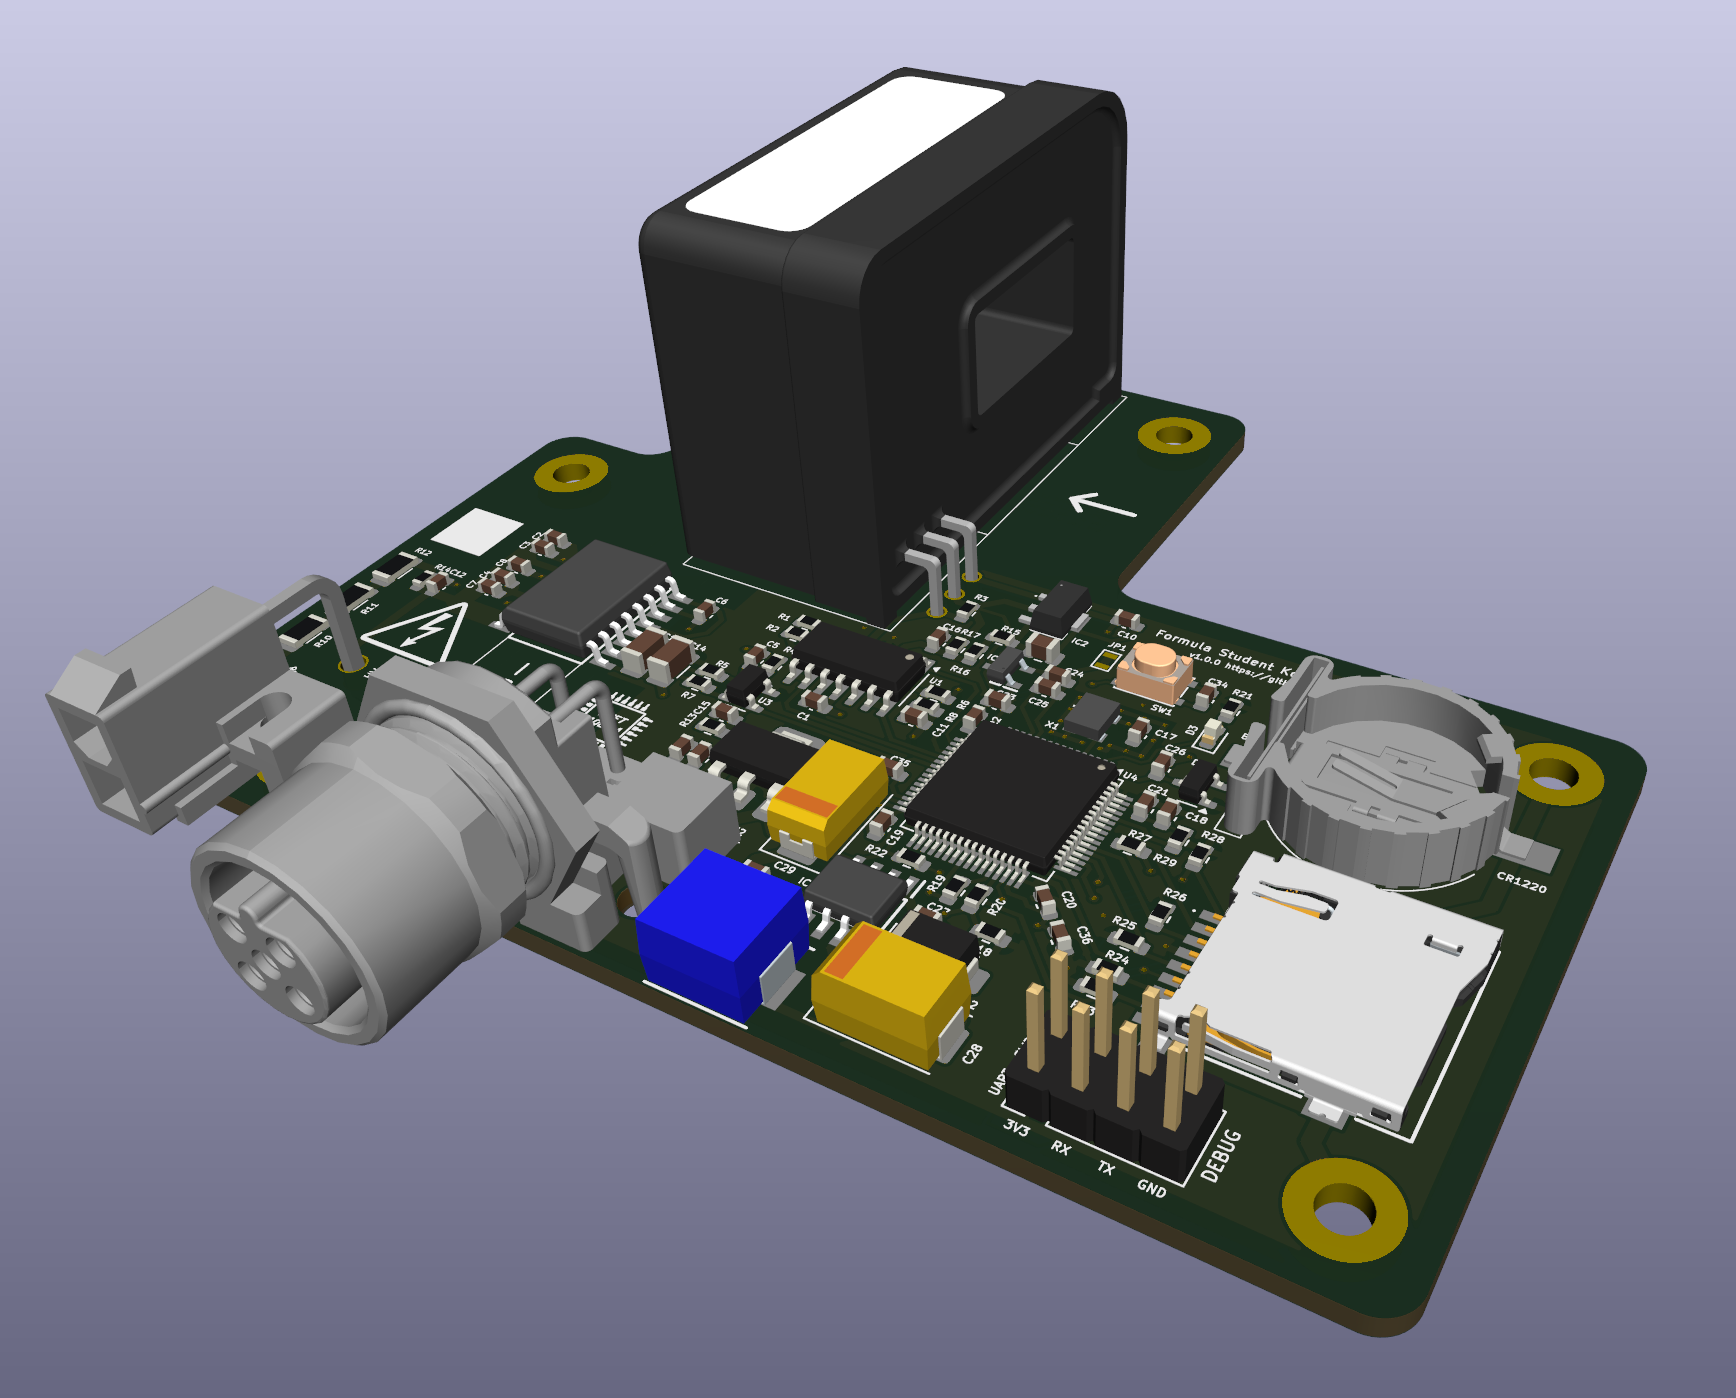
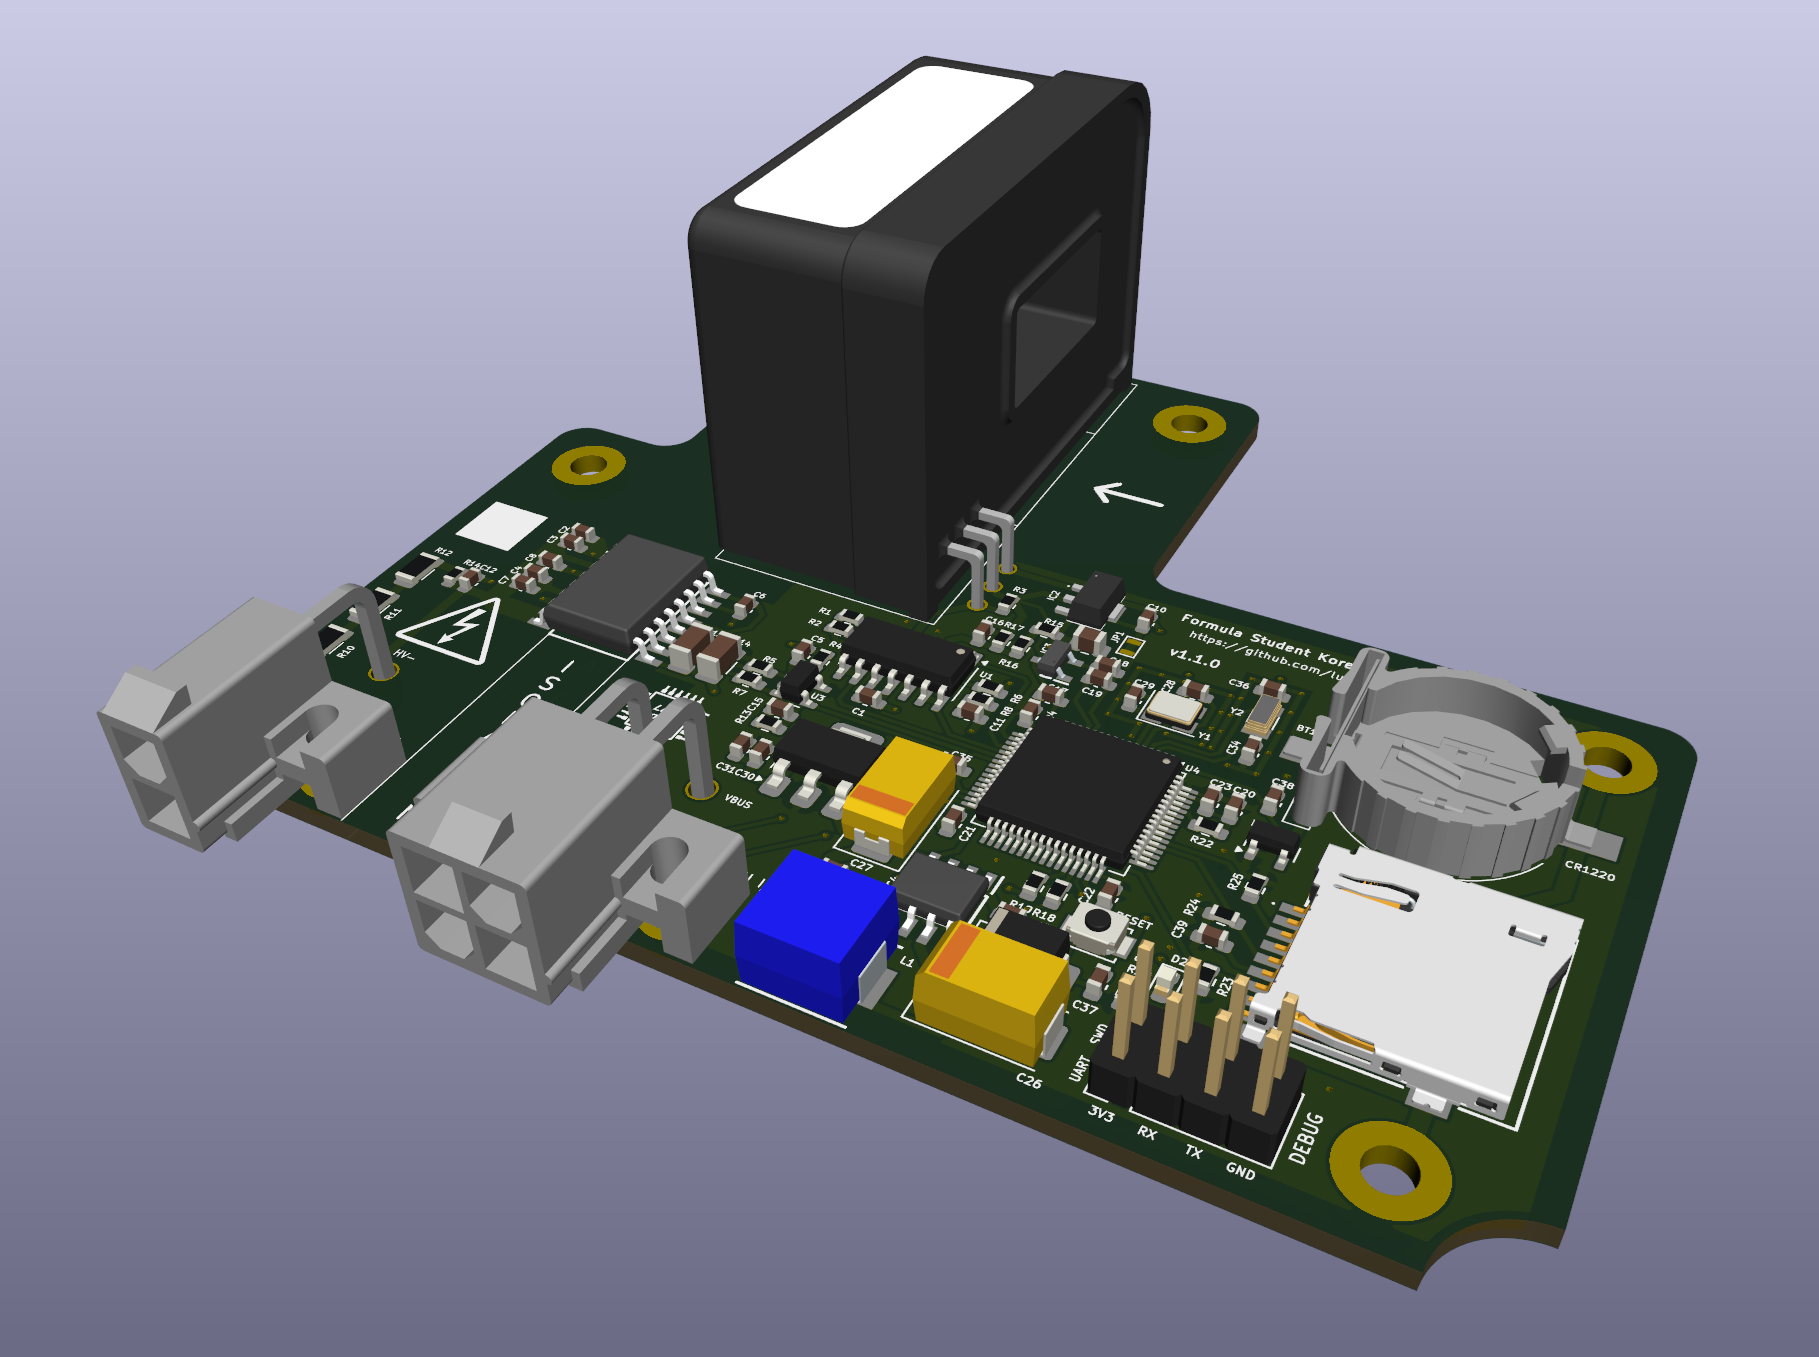
update: README connector informations

diff --git a/README.md b/README.md
@@ -9,13 +9,13 @@
 ## 0. Features
 
 * Records following data:
-    * HV bus voltage 
-    * HV bus current
-    * LV supply voltage 
-    * Ambient (CPU) temperature
-    * Real-world time of each record
+  * HV bus voltage 
+  * HV bus current
+  * LV supply voltage 
+  * Ambient (CPU) temperature
+  * Real-world time of each record
 * 100 Hz sampling rate
-* Mounted as a USB Mass Storage device
+* Mounts as a USB Mass Storage device
 * Data viewer available on most platforms
 
 ## 1. Specifications
@@ -40,18 +40,19 @@
 
 | | LV | HV |
 |:-:|:-:|:-:|
-| Model | [T4145415051-001](https://www.te.com/en/product-T4145415051-001.html) | [39291028](https://www.molex.com/en-us/products/part-detail/39291028) |
+| Model | [Molex 5569-04A1 (39291048)](https://www.molex.com/en-us/products/part-detail/) | [Molex 5569-02A1 (39291028)](https://www.molex.com/en-us/products/part-detail/39291028) |
 | Image | <img src=".github/assets/lv.png" width="300"> | <img src=".github/assets/hv.png" width="300"> |
-| Mate | [T4113402051-000](https://www.te.com/en/product-T4113402051-000.html)<sup>1</sup> | [5557-02](https://www.molex.com/en-us/part-list/5557?physical_circuitsMaximum=%222%22&physical_numberOfRows=%222%22) and [5556T](https://www.molex.com/en-us/products/part-detail/39000038) |
-| Pinout | 1: `D-` &ensp; 2: `D+`<br>3: `N/C` &ensp; 4: `VIN`<br>5: `GND` | 1: `HV+` &ensp; 2: `HV-` |
+| Mate | [Molex 5557-04R (39012040)](https://www.molex.com/en-us/products/part-detail/39012040) | [Molex 5557-02R (39012020)](https://www.molex.com/en-us/products/part-detail/39012020)  |
+| Pinout | 1: `D+` &ensp; 2: `D-`<br>3: `VIN` &ensp; 4: `GND` | 1: `HV+` &ensp; 2: `HV-` |
 
-<sup>1</sup> [T4111402051-000](https://www.te.com/en/product-T4111402051-000.html) is also mountable, but it is ***highly recommended*** to use the `T4113402051-000`.
+> [!TIP]
+> The crimp terminal for the Molex 5557 Series is [Molex 5556T (39000038)](https://www.molex.com/en-us/products/part-detail/39000038).
 
 ### Wiring
 
 ![](.github/assets/wire.png)
 
-The _data cable_ and the _drive cable_ are two distinct cables. When driving the vehicle, connect the _drive cable_ to the LV connector of the FSK-EEM device. When extracting the data, disconnect the _drive cable_ and connect the _data cable_ instead.
+The _data cable_ and the _drive cable_ are two distinct cables. When driving the vehicle, connect the _drive cable_ to the LV connector of the FSK-EEM device. To extract data, disconnect the _drive cable_ and connect the _data cable_ instead.
 
 > [!CAUTION]
 > Misconnection of the pins may cause permanent damage to the device.
@@ -63,50 +64,50 @@ The _data cable_ and the _drive cable_ are two distinct cables. When driving the
 
 ### 3-1. Record data
 
-When driving the vehicle, connect both _HV cable_ and _drive cable_ to the FSK-EEM device. The _drive cable_ should supply `VIN >= 6V` to the device to start as a record mode.
+When driving the vehicle, connect both _HV cable_ and _drive cable_ to the FSK-EEM device. The _drive cable_ should supply `VIN >= 6V` to start recording.
 
-The device performs a zero calibration of the HV voltage and current during the startup sequence. Once the calibration is complete, it continuously measures data every 10 ms.
+Once the device is powered up, it performs a zero calibration of the HV voltage and current. After calibration, it continuously measures data every 10 ms.
 
-The recorded data is updated to the file every 100 ms. During the file update, next measurement may be delayed up to 5 ms.
+The measured data is updated to the file every 100 ms. During the file update, next measurement may be delayed by up to 5 ms.
 
-A new log file is created with each power cycle; each log file corresponds to a single power session.
+A new log file is created with each power cycle. Each log file corresponds to a single power session.
 
 > [!IMPORTANT]
-> Make sure that the HV voltage and current are at 0V and 0A until the startup is complete.
+> For the precise calibration, make sure that the HV voltage and current are at 0V and 0A until the startup is complete (typically 550 ms).
 
 > [!NOTE]
-> The device uses its internal clock to record the actual time of the measured data.
-> As the clock accumulates errors over time, you should synchronize the time with FSK-EEM Viewer if you're using it after a long period.
-> If the time keeps resetting to `May 12, 1999`, the battery should be replaced.
+> The device has an internal clock that tracks real-world time.
+> Since the clock drifts over time, synchronize it with the FSK-EEM Viewer after a long period of non-use.
+> If the time keeps resetting to `May 12, 2099`, the battery should be replaced.
 
 ### 3-2. Extract data
 
-To extract the recorded data from the device, disconnect _drive cable_ from the device and connect _data cable_ instead. There is no need to disconnect the _HV cable_ during data extraction.
+To extract the recorded data from the device, disconnect _drive cable_ and connect _data cable_ instead. There is no need to disconnect the _HV cable_ during data extraction.
 
-Plug the USB side of the _data cable_ to the PC, or smartphone with a Type-A to C adapter. The FSK-EEM USB Mass Storage will appear in a [while](https://github.com/luftaquila/fsk-energymeter?tab=readme-ov-file#6-troubleshootings).
+Plug the USB side of the _data cable_ to the PC or smartphone (with a Type-A to C adapter). The FSK-EEM USB Mass Storage will appear [shortly](https://github.com/luftaquila/fsk-energymeter?tab=readme-ov-file#6-troubleshootings).
 
 The log files are stored in the drive like a common USB memory. Copy the files to your PC.
 
 > [!NOTE]
-> The drive is ***read-only*** and you cannot edit or delete the stored logs in the file explorer.
+> The drive is ***read-only***; you cannot edit or delete the stored logs with the file explorer.
 
 ### 3-3. View data
 
-Go to the [online viewer](https://fsk-energymeter.luftaquila.io) and open the log file to view the recorded data as a graph, or export the log as a human-readable JSON/CSV format.
+Go to the [online viewer](https://fsk-energymeter.luftaquila.io) and open the log file to view a graph of the recorded data, or export it in a human-readable JSON/CSV format.
 
-> [!NOTE]
+> [!TIP]
 > If there is no Internet connection, download html or executable from the [release](https://github.com/luftaquila/fsk-energymeter/releases/latest) in advance.
 
 ### 3-4. Configure the device
 
-In the FSK-EEM Viewer's Device Configuration section, click the `Connect` button and select the FSK-EEM device to connect.
+In the FSK-EEM Viewer's Device Configuration section, click the `Connect` and select the FSK-EEM device to connect.
 
 The device's UID and the current time will be displayed on successful connection.
 
-* `Sync RTC` button synchronizes the device clock with the host computer.
-* `Delete` button deletes ***ALL*** files stored in the device. This button will be active only if the `Unlock` button is clicked.
+* `Sync RTC`: Synchronizes the device clock with the host computer.
+* `Delete`: Erases ***ALL*** files stored in the device.
 
-Unplug and re-connect the device to see the change after the delete.
+Unplug and reconnect the device to see the change after deletion.
 
 > [!WARNING]
 > The delete action ***cannot be undone***.
@@ -116,18 +117,18 @@ Unplug and re-connect the device to see the change after the delete.
 ### 4.1 Build hardware
 
 1. Download `fsk-energymeter-pcb.zip` from the [latest release](https://github.com/luftaquila/fsk-energymeter/releases/latest) and extract it.
-2. Place a JLCPCB PCBA(SMT) order using the GERBER, BOM and CPL files at the The *gerbers/* directory.
+2. Place a JLCPCB PCBA (SMT) order using the GERBER, BOM and CPL files at the The *gerbers/* directory.
 3. Solder following parts manually to the device after the PCB arrives.
     * [L01Z600S05](https://www.eleparts.co.kr/goods/view?no=261774) Hall sensor
-    * [39291028](https://www.eleparts.co.kr/goods/view?no=1058873) HV connector
-    * [T4145415051-001](https://www.eleparts.co.kr/goods/view?no=7504808) LV connector
+    * [5557-02A1](https://www.eleparts.co.kr/goods/view?no=25304) HV connector
+    * [5569-04A1](https://www.eleparts.co.kr/goods/view?no=25303) LV connector
     * [2.54mm 2\*4 debug pin header](https://www.eleparts.co.kr/goods/view?no=12534585)
 4. Insert a CR1220 battery and a Micro SD card to each slots on the PCB.
 
 ### 4.2 Upload firmware
 
 1. Download `fsk-energymeter-firmware.zip` from the [latest release](https://github.com/luftaquila/fsk-energymeter/releases/latest) and extract it.
-1. Connect ST-Link's `3V3`, `GND`, `SWCLK`, `SWDIO` pins to the same pins at the FSK-EEM's debug pin header.
+1. Connect ST-Link's `3V3`, `GND`, `SWCLK`, `SWDIO` pins to the corresponding pins on the FSK-EEM's debug pin header.
 1. Run `flash.bat` to flash the release firmware to the device.
 
 ### 4.3 3d-print housing
@@ -142,12 +143,12 @@ Unplug and re-connect the device to see the change after the delete.
 ## 5. Development
 
 > [!NOTE]
-> This section is NOT REQUIRED in general, and is for developers who want to modify the firmware or the viewer on their own.
-
-### 5-1. Firmware
+> This section is *NOT REQUIRED* in general, and is for developers who want to modify the firmware or the viewer on their own.
 
 <details>
 <summary>click to expand</summary>
+
+### 5-1. Firmware
 
 #### Prerequisites
 
@@ -179,12 +180,7 @@ make program  # release build
 make debug    # debug build
 ```
 
-</details>
-
 ### 5-2. Viewer
-
-<details>
-<summary>click to expand</summary>
 
 #### Prerequisites
 
@@ -218,22 +214,18 @@ make debug    # debug build
 
 ## 6. Troubleshootings
 
-#### 1. FSK-EEM USB Mass Storage takes too long to be mounted on the host
-The FSK-EEM uses the STM32F401, which implements a USB Full Speed PHY. It is decades-old technology with a maximum transfer speed of 12 Mbit/s. However, in the real world, the actual speed is around 4 Mbit/s or 0.5 MB/s.
+#### 1. FSK-EEM USB Mass Storage takes too long to be mounted
+The FSK-EEM's USB interface only supports Full Speed USB (USB 1.1) specification. It is decades-old technology with a maximum transfer speed of 12 Mbps. However, in the real world, the actual speed is around 4 Mbps (0.5 MB/s).
 
-When you connect the FSK-EEM to your host PC, it will try to load the FAT table of the SDMMC. The FAT32 FAT table is typically a few megabytes, so it will take ~20 seconds to mount.
+When the device is connected to the host PC, the host will try to load the FAT table of the SDMMC. The FAT32 FAT table is typically a few megabytes, so it will take ~20 seconds to mount.
 
-To reduce the mount time, use SD cards with smaller capacities or format them with larger cluster sizes.
-
-The RTC sync or record delete functions will work immediately regardless of this limit.
+To reduce the mount time, format SD cards with larger cluster sizes. The RTC sync or record delete functions will work immediately regardless of this limit.
 
 #### 2. `Web Serial API not supported` error on the FSK-EEM Viewer.
 
-FSK-EEM Viewer's Device Configuration tab uses the Web Serial API to talk with the device, which has [limited support](https://caniuse.com/?search=Web%20Serial%20API) across the platforms and browsers.
+The FSK-EEM Viewer's Device Configuration tab uses the Web Serial API to talk with the device, which has [limited support](https://caniuse.com/?search=Web%20Serial%20API) across the platforms and browsers.
 
-On macOS, the native app uses the Safari for its WebView, which does not supports the API. The web version(URL or html file) of the FSK-EEM Viewer will work on the Chrome browser.
-
-On Android and iOS, the API is not supported from the OS layer. Use the desktop version of the viewer to configure the device.
+On macOS, the native app uses the Safari for its WebView, which does not supports the API. The web version (URL or html file) of the FSK-EEM Viewer will work on the Chrome browser. The mobile platforms also does not supports the API.
 
 ## 7. LICENSE
 
